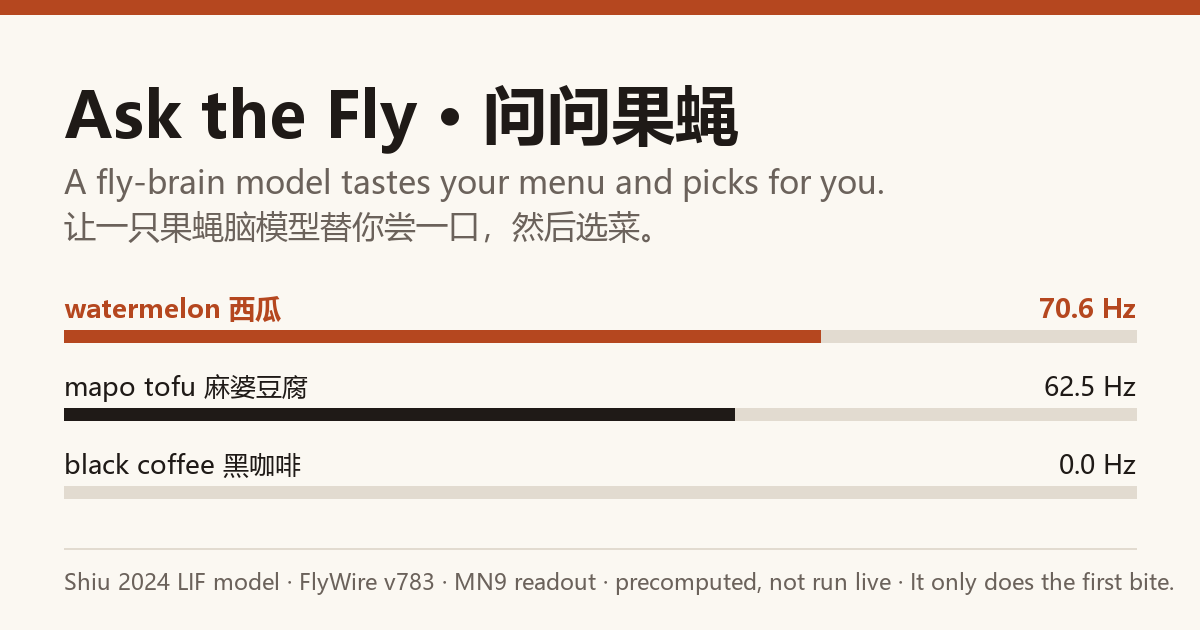
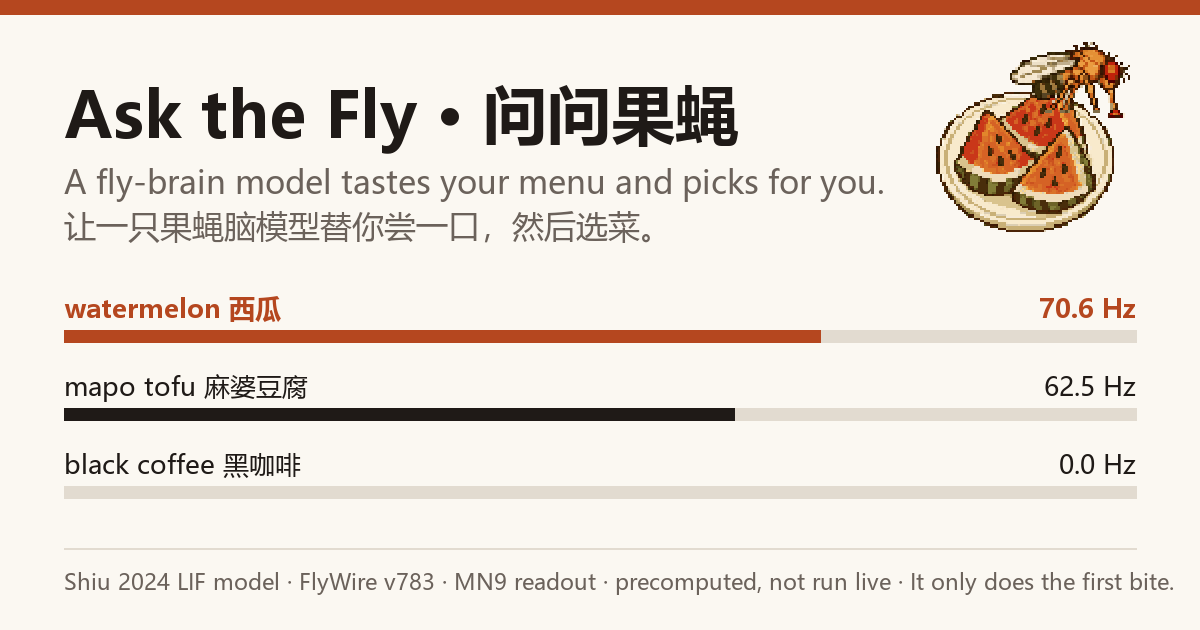
og-image: real watermelon and fly sprites on the preview; fix a variable shadowing that saved over a fly frame

Changed region(s): [[0.7708, 0.0603, 0.9558, 0.3921]]

diff --git a/scripts/render_og_image.py b/scripts/render_og_image.py
@@ -51,6 +51,14 @@ def render(path: Path) -> None:
         if width:
             d.rectangle((64, y + 40, 64 + width, y + 52), fill=colour)
         y += 78
+    # Real sprites from the shipped asset set (nearest-neighbour upscaled).
+    sprites = ROOT / "site" / "assets"
+    for name, box in (("dishes/watermelon.png", (930, 60, 192)), ("fly/proboscis_2.png", (1010, 20, 120))):
+        sprite_path = sprites / name
+        if sprite_path.exists():
+            x, y, size = box
+            sprite = Image.open(sprite_path).convert("RGBA").resize((size, size), Image.Resampling.NEAREST)
+            im.paste(sprite, (x, y), sprite)
     d.line((64, 548, 1136, 548), fill=LINE, width=2)
     d.text((64, 566), "Shiu 2024 LIF model · FlyWire v783 · MN9 readout · precomputed, not run live · It only does the first bite.",
            font=font(22), fill=MUTED)
